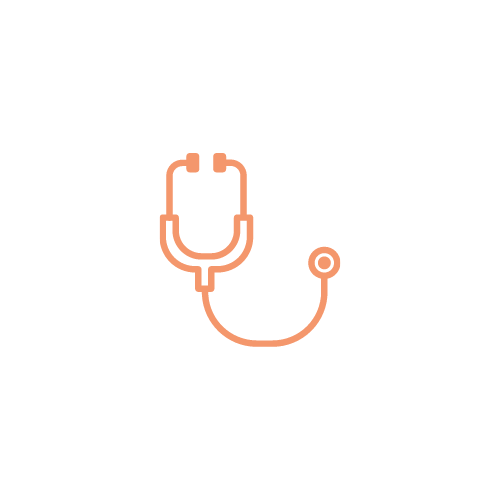
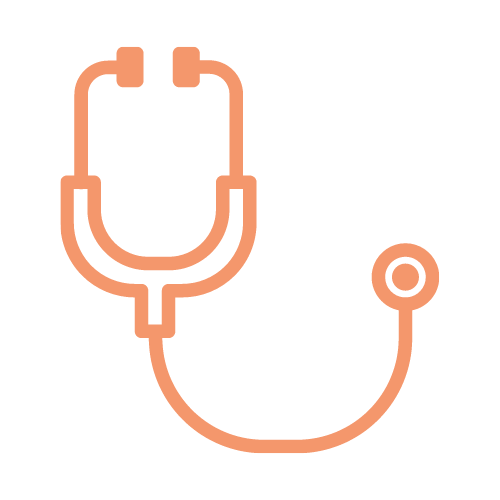
Updated images on side bar component and added info to the about page

Changed region(s): [[0.12, 0.09, 0.9, 0.93]]

diff --git a/resources/js/views/About.vue b/resources/js/views/About.vue
@@ -1,8 +1,36 @@
 <template>
   <div class="about">
     <Sidebar/>
-    <h1>This is an about page</h1>
+    <h1>About MyHealthBin!</h1>
+    <div class = "authors">
+      <div class = "developers">
+        <h3>Developers</h3>
+        <p>Role #1: Kenzie Baker</p>
+        <p>Role #2: Tom Berg</p>
+        <p>Role #3: Evan Cochran</p>
+        <p>Role #4: Benjamin Collicot</p>
+        <p>Role #5: Noah Deverney</p>
+        <p>Role #19: Cale McDonnell</p>
+      </div>
+      <div class = "managers">
+        <h3>Managers</h3>
+        <p>Role #12: Jack Hayes</p>
+        <p>Role #2: Eric Belt</p>
+        <p>Role #3: Mike Boisvert</p>
+      </div>
+    </div>
+    <br><br>
+    <div class = "description">
+    <h3>Description</h3>
+    <p>People who have various medical issues or caretakers of those with medical issues tend to have a <br>
+      lot to keep track of. They have to keep track of prescriptions, appointments, different doctors, and many <br>
+      other things but there are very limited resources to keep track of all of that information in one area. <br>
+      So we created MyHealth-Bin which is a personal health tool and web application intended to help <br>
+      users keep a record of their medical info and more.
+      </p>
+    </div>
   </div>
+
 </template>
 
 <script>
@@ -20,4 +48,17 @@ export default {
 .about {
   color: white !important;
 }
+
+.authors {
+  display: flex;
+  justify-content: space-evenly;
+  
+}
+.developers {
+  order: 1;
+}
+.managers {
+  order: 2;
+}
+
 </style>

diff --git a/resources/js/components/HistoryAddCard.vue b/resources/js/components/HistoryAddCard.vue
@@ -11,19 +11,24 @@
          <div class="invalid-feedback">
          </div>
        </b-form-group>
-
-          <b-form-group has-error>
+            <b-form-group has-error>
+              <label for="Surgeon"><strong>Surgeon Name</strong></label>
+               <Input />
+            </b-form-group>
+            <b-form-group has-error>
             <label for="Date"><strong>Date</strong></label>
             <Input />
-            <br><br>
-             <ButtonBlock  buttonBlockText="Add Surgery" />
               <div class="invalid-feedback">
               </div>
           </b-form-group>
-
-          <b-form-group has-error>
-
-          </b-form-group>
+            <b-form-group has-error>
+              <label for="Description"><strong>Description/Comments</strong></label>
+               <Input />
+            </b-form-group>
+          
+            <br><br>
+             <ButtonBlock  buttonBlockText="Add Surgery" />
+       
 
 
       </form>

diff --git a/resources/js/components/Sidebar.vue b/resources/js/components/Sidebar.vue
@@ -1,9 +1,9 @@
 <template>
   <div class="sidebar">
-    <SidebarButton text = "Home" page = "/" imageSource = "DefaultIcon.png"/>
-    <SidebarButton text = "About" page = "about" imageSource = "DefaultIcon.png"/>
+    <SidebarButton text = "Home" page = "/" imageSource = "HomeIcon.png"/>
+    <SidebarButton text = "About" page = "about" imageSource = "AboutIcon.png"/>
     <SidebarButton text = "Prescriptions" page = "prescription" imageSource = "PrescriptionIcon.png"/>
-    <SidebarButton text = "Medical History" page = "medical" imageSource = "DefaultIcon.png"/>
+    <SidebarButton text = "Medical History" page = "medical" imageSource = "HistoryIcon.png"/>
   </div>
 </template>
 

diff --git a/database/migrations/2021_11_01_032113_create_medical_histroys_table.php b/database/migrations/2021_11_01_032113_create_medical_histroys_table.php
@@ -13,7 +13,7 @@ class CreateMedicalHistroysTable extends Migration
      */
     public function up()
     {
-        Schema::create('medical_histroys', function (Blueprint $table) {
+        Schema::create('medical_historys', function (Blueprint $table) {
             $table->id();
             $table->string('name');
             $table->string('DOB');
